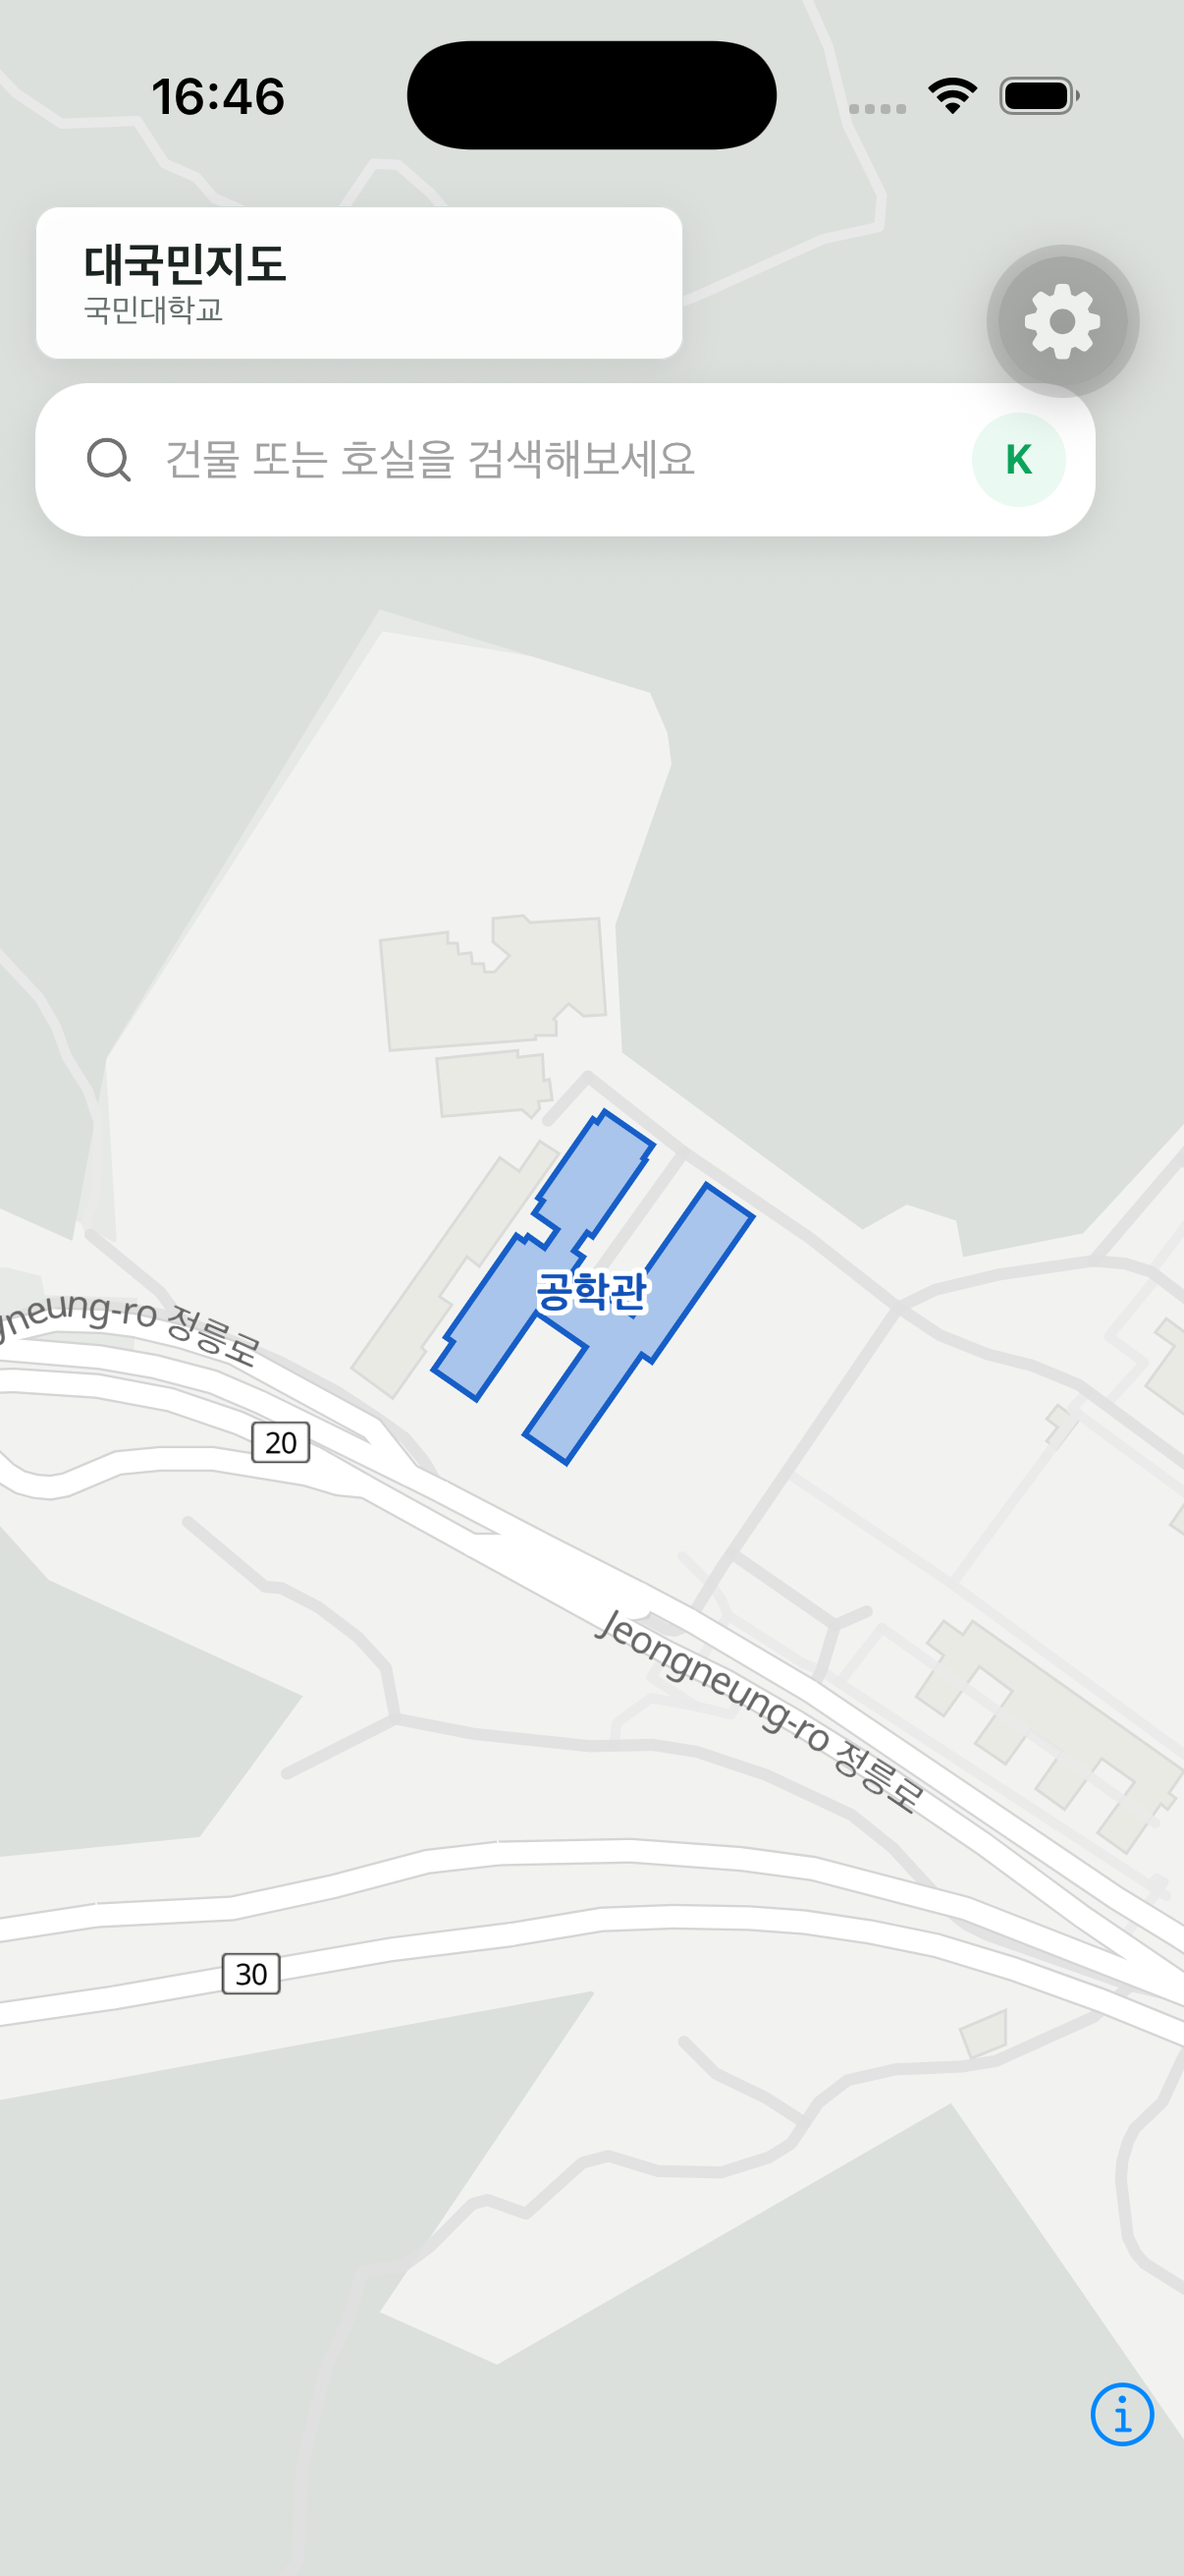
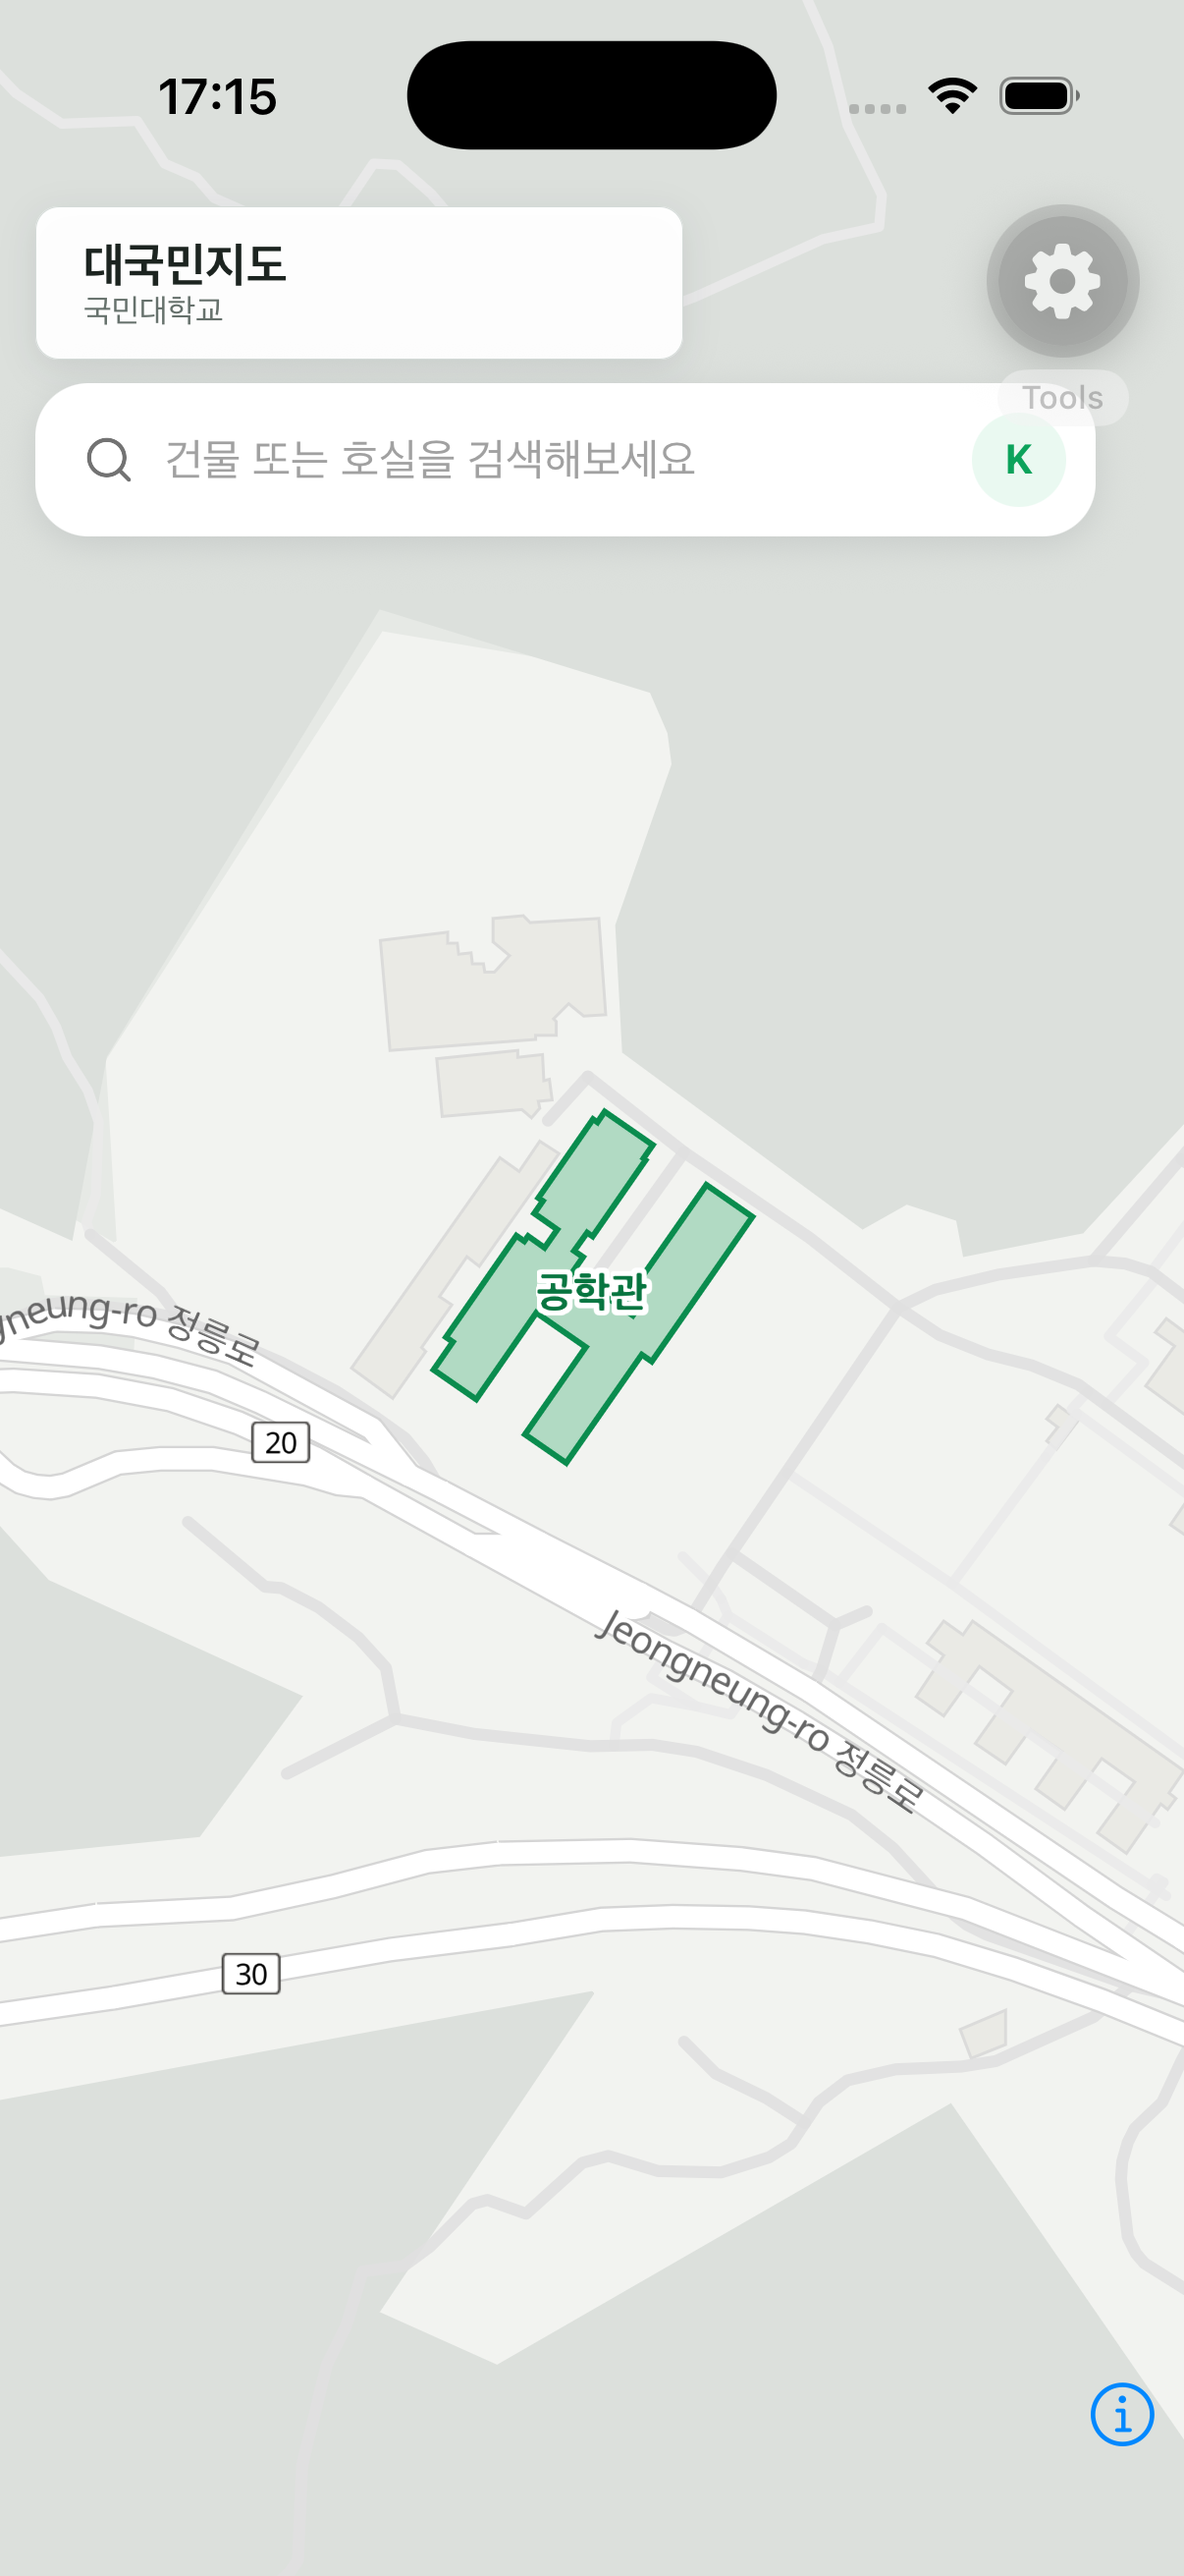
feat(map): 지도 레이어 캠퍼스 그린 리컬러
- 건물 채움과 외곽선과 라벨, 선택 방 돌출과 헤일로, 경로 본선과
  출발 마커, 계단 면과 외곽을 캠퍼스 그린 스케일로 교체
- 웹 잔여 파랑 정리: MORI 브랜드마크, 고스트 버튼, 호버와 활성 배경
- 홈 화면이 검색바부터 지도 레이어까지 단일 그린 정체성으로 통일

Changed region(s): [[0.3682, 0.4325, 0.6443, 0.587], [0.8284, 0.0618, 0.9818, 0.1545], [0.1227, 0.0309, 0.2454, 0.0618]]

diff --git a/src/map/campus-map-spec.ts b/src/map/campus-map-spec.ts
@@ -99,7 +99,7 @@ export const buildingLayerSpecs = (): LayerSpecification[] => [
     type: "fill",
     source: SOURCE_IDS.building,
     paint: {
-      "fill-color": "#2F7EF7",
+      "fill-color": "#45BC81",
       "fill-opacity": [
         "interpolate",
         ["linear"],
@@ -118,7 +118,7 @@ export const buildingLayerSpecs = (): LayerSpecification[] => [
     type: "line",
     source: SOURCE_IDS.building,
     paint: {
-      "line-color": "#165EC8",
+      "line-color": "#0A8C4E",
       "line-width": 2,
       "line-opacity": revealOut(1)
     }
@@ -136,7 +136,7 @@ export const buildingLabelLayerSpecs = (): LayerSpecification[] => [
       "text-size": ["interpolate", ["linear"], ["zoom"], 15, 13.5, 17, 15.5]
     },
     paint: {
-      "text-color": "#1252B8",
+      "text-color": "#087540",
       "text-halo-color": "#FFFFFF",
       "text-halo-width": 1.8,
       "text-opacity": revealOut(1)
@@ -196,7 +196,7 @@ export const floorSpaceLayerSpecs = (
         "corridor",
         "#FFFFFF",
         "stairs",
-        "#E8F0FC",
+        "#DDF3E6",
         "elevator",
         "#E4F3EA",
         "#F3F6F5"
@@ -228,7 +228,7 @@ export const floorSpaceLayerSpecs = (
         "corridor",
         "#D0D7D4",
         "stairs",
-        "#7396C9",
+        "#45BC81",
         "elevator",
         "#67A17C",
         "#B4BFBA"
@@ -253,7 +253,7 @@ export const floorSpaceLayerSpecs = (
     filter: selectedFilter(selectedRoomId),
     paint: {
       "fill-extrusion-base": 0,
-      "fill-extrusion-color": "#2478F4",
+      "fill-extrusion-color": "#0CA35B",
       "fill-extrusion-height": 5.4,
       "fill-extrusion-opacity": revealIn(1)
     }
@@ -265,7 +265,7 @@ export const floorSpaceLayerSpecs = (
     minzoom: INDOOR_MIN_ZOOM,
     filter: selectedFilter(selectedRoomId),
     paint: {
-      "line-color": "#0B4EB9",
+      "line-color": "#087540",
       "line-width": 3,
       "line-opacity": revealIn(1)
     }
@@ -299,7 +299,7 @@ export const floorLabelLayerSpecs = (
         "match",
         ["get", "kind"],
         "stairs",
-        "#496B9A",
+        "#0A8C4E",
         "elevator",
         "#3F7654",
         "#34413B"
@@ -333,7 +333,7 @@ export const floorLabelLayerSpecs = (
     },
     paint: {
       "text-color": "#FFFFFF",
-      "text-halo-color": "#0B4EB9",
+      "text-halo-color": "#087540",
       "text-halo-width": 1,
       "text-opacity": revealIn(1)
     }
@@ -387,7 +387,7 @@ export const routeLineLayerSpecs = (
     filter: floorFilter(floor, true),
     layout: { "line-cap": "round", "line-join": "round" },
     paint: {
-      "line-color": "#1767E8",
+      "line-color": "#0CA35B",
       "line-width": 6,
       "line-opacity": revealIn(1)
     }
@@ -427,7 +427,7 @@ export const routeMarkerLayerSpecs = (
         "match",
         ["get", "role"],
         "start",
-        "#12A36D",
+        "#0CA35B",
         "floor-change",
         "#F0980B",
         "#E64867"

diff --git a/src/app/index.web.tsx b/src/app/index.web.tsx
@@ -603,7 +603,7 @@ const styles = `
     width: 38px;
     height: 38px;
     border-radius: 7px;
-    background: #1767E8;
+    background: #0CA35B;
     color: white;
     font-size: 10px;
     font-weight: 800;
@@ -704,7 +704,7 @@ const styles = `
   }
 
   .search-result:last-child { border-bottom: 0; }
-  .search-result:hover, .search-result:focus-visible { background: #EEF4FD; outline: 0; }
+  .search-result:hover, .search-result:focus-visible { background: #EAF9F1; outline: 0; }
   .search-result > span { display: grid; min-width: 0; flex: 1; gap: 2px; }
   .search-result strong { font-size: 14px; }
   .search-result small { overflow: hidden; color: #66716C; font-size: 12px; text-overflow: ellipsis; white-space: nowrap; }
@@ -748,7 +748,7 @@ const styles = `
 
   .floor-selector button:last-child { border-bottom: 0; }
   .floor-selector button:hover { background: #F2F5F3; }
-  .floor-selector button.selected { background: #1767E8; color: white; }
+  .floor-selector button.selected { background: #0CA35B; color: white; }
   .floor-selector button:focus-visible { outline: 3px solid #8DB8FF; outline-offset: -3px; }
 
   .pending-chip {
@@ -761,7 +761,7 @@ const styles = `
     gap: 8px;
     padding: 9px 8px 9px 14px;
     border-radius: 999px;
-    background: #123E8F;
+    background: #087540;
     box-shadow: 0 6px 18px rgba(18,62,143,.3);
     color: white;
     font-size: 12px;
@@ -812,7 +812,7 @@ const styles = `
     padding: 0 12px;
     border: 0;
     border-radius: 7px;
-    background: #1767E8;
+    background: #0CA35B;
     color: white;
     font-size: 13px;
     font-weight: 700;
@@ -820,7 +820,7 @@ const styles = `
   }
 
   .room-card button:hover { background: #0F58CF; }
-  .room-card button.ghost { background: #EAF2FE; color: #185FCB; }
+  .room-card button.ghost { background: #DDF3E6; color: #0A8C4E; }
   .room-card button.ghost:hover { background: #DBE9FD; }
   .room-card button.close {
     min-width: 32px;
@@ -898,7 +898,7 @@ const styles = `
   }
 
   .step-list button:hover { background: #F3F7F5; }
-  .step-list button.active { background: #EEF4FD; color: #123E8F; font-weight: 700; }
+  .step-list button.active { background: #EAF9F1; color: #087540; font-weight: 700; }
   .step-list i {
     width: 22px;
     color: #5A6660;
